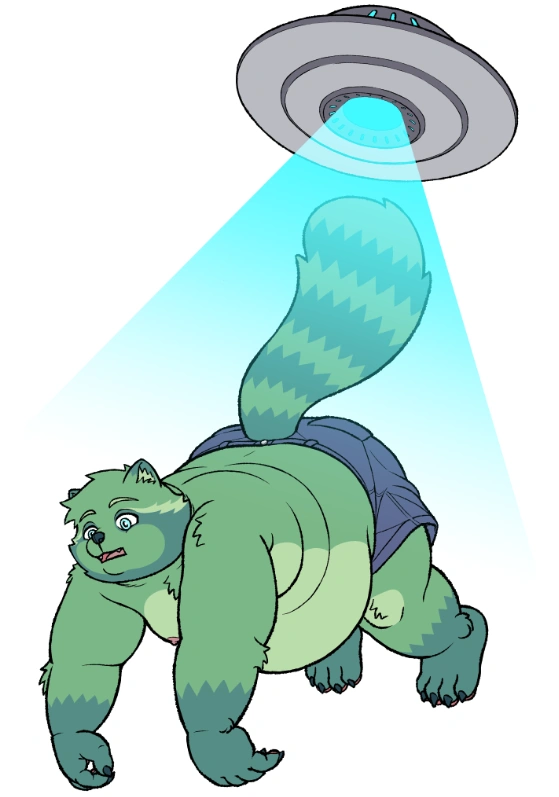
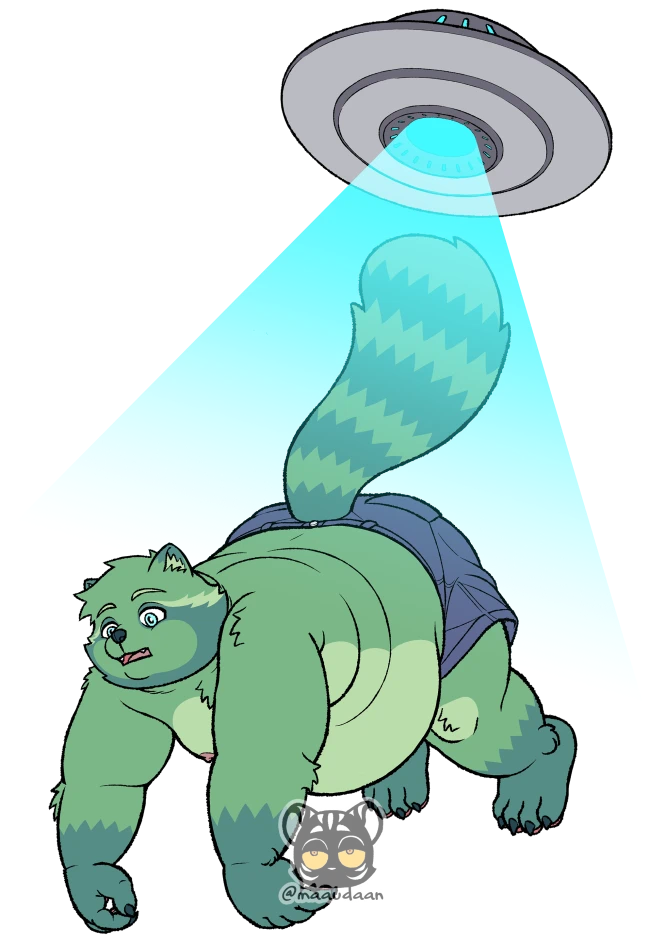
bigger ufo image

diff --git a/_includes/foundation_index.html b/_includes/foundation_index.html
@@ -118,7 +118,7 @@ ignored.</P>
   <P CLASS="extended-comment advisory"><SMALL>Fred wasted some of the Foundation's money on this. It was a mistake. The Foundation will not be funding this project any further.
 
       He has been a bad raccoon and is sorry. He was brought upstairs for a firm talking-to.<BR>
-      <IMG WIDTH="20%" SRC="./media/ufo.webp" ALT="A UFO abducting the chairman of the MFEK Foundation Inc."></SMALL></P>
+      <IMG WIDTH="40%" SRC="./media/ufo.webp" ALT="A UFO abducting the chairman of the MFEK Foundation Inc."></SMALL></P>
   </LI>
   <DIV CLASS="tag-marker"></DIV>
   <LI ID="№22"><SPAN><A HREF="/misc/four-freedoms-japanese.html">The Four Freedoms of Free Software</A> (フリー・ソフトの四つの自由) manga (<EM>completed</EM>)</SPAN><BR>
